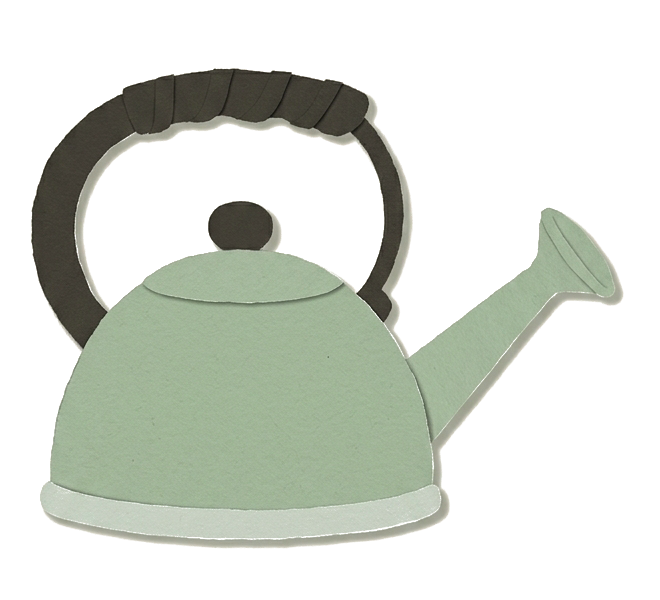
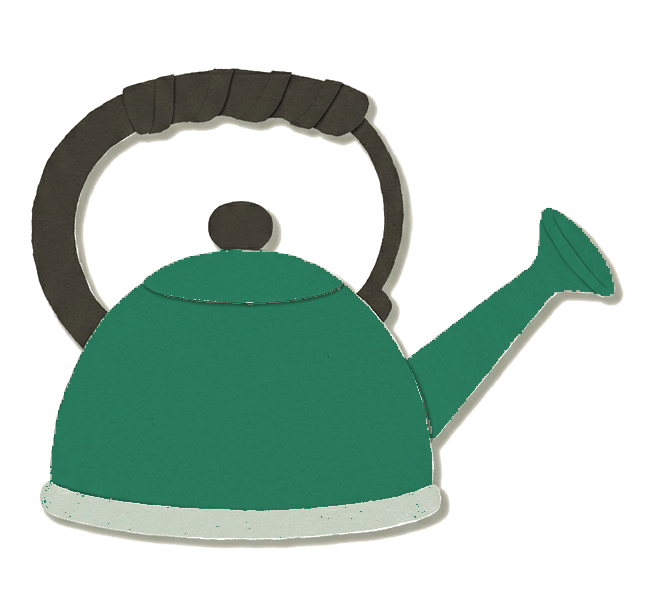
video: end-card kettle in Kettle green to match the kitchen
The painted end-card kettle was the avatar's sage, so the video showed
two different kettles. Recoloured rather than repainted, so the shape
and paper grain stay exactly as approved: only sage pixels are scaled
per channel to #297A5C; ring, handle and knob are untouched. The
command is recorded in PROMPTS.md. Renders remain byte-identical.

Changed region(s): [[0.0606, 0.33, 0.9394, 0.87]]

diff --git a/marketing/explainer-video/assets/PROMPTS.md b/marketing/explainer-video/assets/PROMPTS.md
@@ -44,3 +44,12 @@ Reference: `../../social/brand/kettle-x-avatar.png` (the brand kettle: shape and
 ```
 One stovetop kettle alone in the centre of the image, the same kettle as the reference image: same round dome body, same small knob lid, same tall arched dark ink handle with a wrapped grip, same straight spout angled up to the right with a flared tip, same thin pale base ring. The kettle body and spout are sage green #9FB699 exactly like the reference; this green is the one exception to the palette. Make it a paper cutout: flat cut paper pieces with slightly torn edges, faint paper grain, a soft pale grey-green drop shadow under the kettle. Flat colour, no shine highlight, no gloss. The kettle has no face and no eyes. The background is completely plain flat paper colour #F7F1E8 with nothing else in the image: no table, no stove, no steam, no pattern. The kettle fills about half the image width.
 ```
+
+### kettle: recoloured after painting
+The painted kettle was sage green (about #A1B598). To match Mom's kitchen kettle it was recoloured,
+not repainted: only sage pixels are scaled per channel toward Kettle green #297A5C, so the shape and
+paper grain are unchanged; the pale base ring, dark handle and knob are untouched.
+```
+M='between(g(X,Y)-r(X,Y),11,32)*between(r(X,Y),100,190)'
+ffmpeg -i kettle-sage.png -vf "format=rgba,geq=r='if($M,r(X,Y)*0.2547,r(X,Y))':g='if($M,g(X,Y)*0.674,g(X,Y))':b='if($M,b(X,Y)*0.605,b(X,Y))':a='alpha(X,Y)'" -map_metadata -1 -fflags +bitexact kettle.png
+```

diff --git a/marketing/explainer-video/BRIEF.md b/marketing/explainer-video/BRIEF.md
@@ -43,7 +43,7 @@ bottom 12% are covered by app buttons on TikTok and Reels). One line of words on
 - THE KID'S APARTMENT: city window with curtains, a table with a lamp, mug, plant and the phone.
 - THE KETTLE: small stovetop kettle in Kettle green, curved spout, black handle. Never has a face.
   The scene 5 end card uses the painted brand kettle (`assets/kettle.png`), matched to
-  `social/brand/kettle-x-avatar.png`: same shape, its sage green.
+  `social/brand/kettle-x-avatar.png` for shape, recoloured to Kettle green to match the kitchen.
 
 ## Story (on-screen words exactly as written, straight apostrophes)
 1. 0 to 6 s. Night at the kid's city apartment: dark blue-green sky and lit windows outside, the

diff --git a/marketing/explainer-video/TASKS.md b/marketing/explainer-video/TASKS.md
@@ -26,3 +26,7 @@
     cd marketing/explainer-video && npm install && npm run render
 Needs Google Chrome (or `CHROME=/path/to/chrome`) and `ffmpeg`. Output in `out/`. Never calls Gemini.
 Repaint a backdrop: `GEMINI_API_KEY=... node paint.mjs <name> [ref.png]`, then pick from `candidates/`.
+
+## v4: end-card kettle in Kettle green
+- [x] Recoloured `assets/kettle.png` sage to #297A5C (no repaint, 0 Gemini calls); command in PROMPTS.md
+- [x] still-5 checked; two renders byte-identical; pushed
